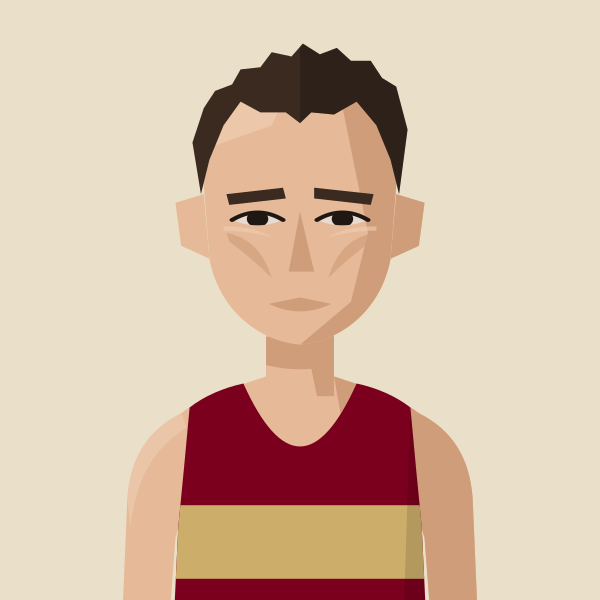
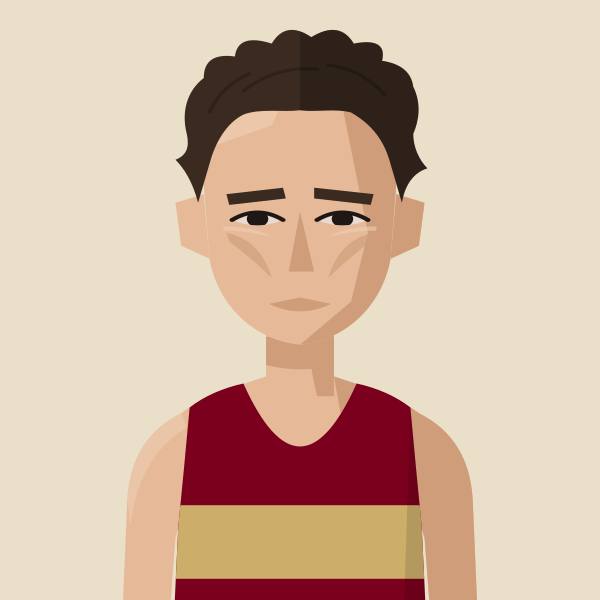
Justin Chaston: more hair
Claude-Session: https://claude.ai/code/session_01DgcEr9hQHGiZw2mBbM5jbH

Changed region(s): [[0.3, 0.03, 0.72, 0.33]]

diff --git a/files/index.html b/files/index.html
@@ -596,7 +596,7 @@ return m;})();
 const portraitFile=(name,club)=>{const k=normalizeNameForCompare(name||'').replace(/\s*\(([^)]*)\)$/,(m,c)=>CLUBS[c.toUpperCase()]?'':m);const a=PORTRAITS[k];if(a&&a.club===club)return a.file;const b=PORTRAITS[k+'@'+club];return b?b.file:null;};
 // Athlete header figure: superstar portrait if we have one, else a grey runner in the club vest, else the plain vest icon
 // Changes whenever any portrait changes (set by tools/build_og.py), so browsers fetch fresh images instead of old cached ones
-const PORTRAIT_V='3c9834c7';
+const PORTRAIT_V='af07883f';
 const AthletePortrait=({name,club,w,fill,onClick})=>{const[failed,setFailed]=useState(false);const file=portraitFile(name,club);const src=file?`/portraits/athletes/${file}.svg?v=${PORTRAIT_V}`:PORTRAIT_CLUBS.has(club)?`/portraits/clubs/${club.replace(/\//g,'').replace(/&/g,'and')}.svg?v=${PORTRAIT_V}`:null;if(!src||failed)return<div onClick={onClick} className={onClick?'cursor-pointer':''}><ClubShield club={club} size={w}/></div>;const h=Math.round(w*148/126),ih=Math.round(w*1.4);if(fill)return<div onClick={onClick} className="cursor-pointer" style={{alignSelf:'stretch',minHeight:h,aspectRatio:'126 / 148',flexShrink:0,position:'relative',borderRadius:4,overflow:'hidden'}}><img src={src} alt={file?`Portrait of ${name.replace(/\s*\([^)]*\)$/,'')}`:`Runner in ${CLUBS[club]?.name||club} vest`} style={{position:'absolute',top:0,left:0,display:'block',width:'100%',height:'auto'}} onError={()=>setFailed(true)}/></div>;return<div style={{width:w,height:h,borderRadius:4,overflow:'hidden',flexShrink:0}}><img src={src} alt={file?`Portrait of ${name.replace(/\s*\([^)]*\)$/,'')}`:`Runner in ${CLUBS[club]?.name||club} vest`} width={w} height={ih} style={{display:'block',width:w,height:ih}} onError={()=>setFailed(true)}/></div>;};
 const getClubVestSvg=(club)=>{
   const p="M3 0 L6 0 Q7 4 10 5 Q13 4 14 0 L17 0 L17 20 L3 20 Z";

diff --git a/tools/gen_portraits.py b/tools/gen_portraits.py
@@ -934,7 +934,7 @@ save("charlie-dickinson", figure("BEL", skin=1, hair="quiffrecede", hair_colour=
 save("dave-beaver", figure("BEL", skin=1, hair="messyvolume", hair_colour="#241A15", gaunt=True))
 save("john-mather", figure("BEL", skin=1, hair="croprecede", hair_colour="light brown", rosy=True))
 save("jon-hobbs", figure("BEL", skin=1, hair="quiff", hair_colour="#241A15"))
-save("justin-chaston", figure("BEL", skin=2, hair="shortcurls", hair_colour="#3A2A20", gaunt=True))
+save("justin-chaston", figure("BEL", skin=2, hair="messyvolume", hair_colour="#3A2A20", gaunt=True))  # Steve: a bit more hair
 save("matt-chaston", figure("BEL", skin=1, hair="messyvolume", hair_colour="#7A4528", rosy=True))
 save("mark-anderson", figure("BEL", skin=1, hair="crop", hair_colour="dark brown", jaw="square"))
 
